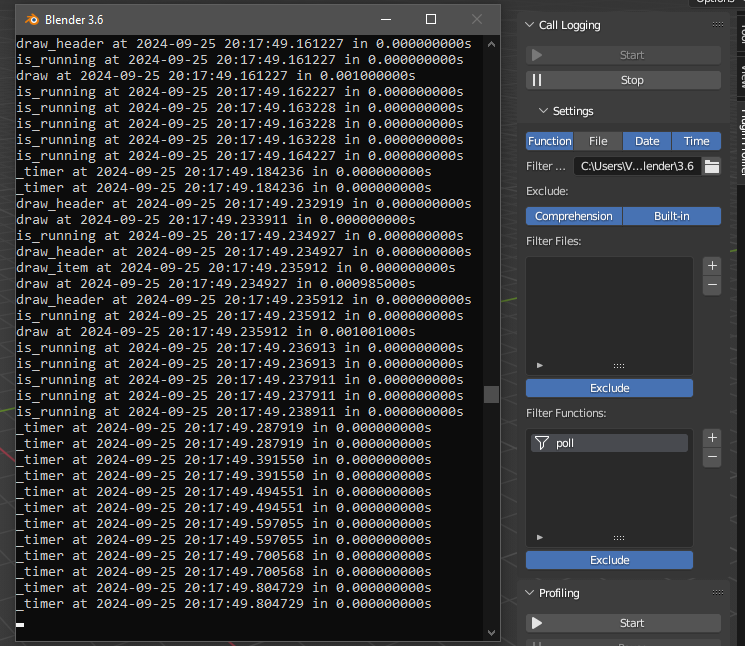
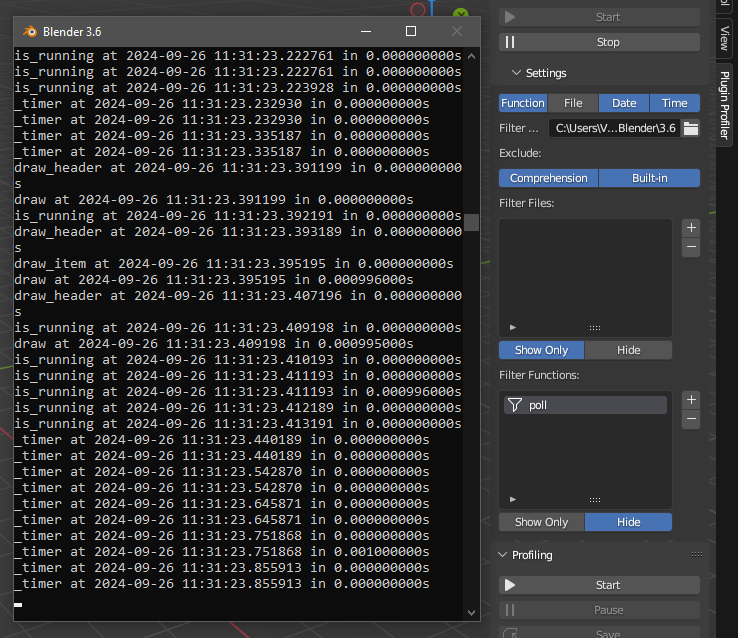
Switch filter types from bool to enum

diff --git a/PluginProfiler/props.py b/PluginProfiler/props.py
@@ -43,9 +43,14 @@ class PPROF_PG_logging(bpy.types.PropertyGroup):
         type=PPROF_PG_logging_filteritem
     )
     filter_file_index: bpy.props.IntProperty(name="Active Filter Index", description="Double click to change name and value")
-    filter_file_exclude: bpy.props.BoolProperty(
-        name="Exclude Filtered Files",
-        description="Hide the items matching the filters instead of only showing them"
+    filter_file_type: bpy.props.EnumProperty(
+        name="Filter Type",
+        description="Filter with whitelisting or blacklisting",
+        items=(
+            ('WHITELIST', "Show Only", "Show items only if they match the filter"),
+            ('BLACKLIST', "Hide", "Hide items if they match the filters")
+        ),
+        default='WHITELIST'
     )
     filter_func: bpy.props.CollectionProperty(
         name="Filter Functions",
@@ -53,9 +58,14 @@ class PPROF_PG_logging(bpy.types.PropertyGroup):
         type=PPROF_PG_logging_filteritem
     )
     filter_func_index: bpy.props.IntProperty(name="Active Filter Index", description="Double click to change name and value")
-    filter_func_exclude: bpy.props.BoolProperty(
-        name="Exclude Filtered Functions",
-        description="Hide the items matching the filters instead of only showing them"
+    filter_func_type: bpy.props.EnumProperty(
+        name="Filter Type",
+        description="Filter with whitelisting or blacklisting",
+        items=(
+            ('WHITELIST', "Show Only", "Show items only if they match the filter"),
+            ('BLACKLIST', "Hide", "Hide items if they match the filters")
+        ),
+        default='WHITELIST'
     )
 
 

diff --git a/PluginProfiler/ui.py b/PluginProfiler/ui.py
@@ -244,7 +244,8 @@ class PPROF_PT_logging_settings(bpy.types.Panel):
         row_file = layout.row()
         col_list_file = row_file.column()
         col_list_file.template_list("PPROF_UL_filter", "PPROF_filter_file", props, "filter_file", props, "filter_file_index")
-        col_list_file.prop(props, "filter_file_exclude", text="Exclude", toggle=True)
+        row_type_file = col_list_file.row(align=True)
+        row_type_file.prop(props, "filter_file_type", expand=True)
         col_op_file = row_file.column(align=True)
         op_add_file = col_op_file.operator("pprof.logging_filter_add", text="", icon='ADD')
         op_add_file.prop = "filter_file"
@@ -255,7 +256,8 @@ class PPROF_PT_logging_settings(bpy.types.Panel):
         row_func = layout.row()
         col_list_func = row_func.column()
         col_list_func.template_list("PPROF_UL_filter", "PPROF_filter_func", props, "filter_func", props, "filter_func_index")
-        col_list_func.prop(props, "filter_func_exclude", text="Exclude", toggle=True)
+        row_type_func = col_list_func.row(align=True)
+        row_type_func.prop(props, "filter_func_type", expand=True)
         col_op_func = row_func.column(align=True)
         op_add_func = col_op_func.operator("pprof.logging_filter_add", text="", icon='ADD')
         op_add_func.prop = "filter_func"

diff --git a/PluginProfiler/utils.py b/PluginProfiler/utils.py
@@ -48,11 +48,11 @@ class Profiler:
             return
         
         for item in self.settings.filter_file:
-            if (item.name in file) == self.settings.filter_file_exclude:
+            if (item.name in file) == (self.settings.filter_file_type == 'BLACKLIST'):
                 return
         
         for item in self.settings.filter_func:
-            if (item.name == name) == self.settings.filter_func_exclude:
+            if (item.name == name) == (self.settings.filter_func_type == 'BLACKLIST'):
                 return
         
         self.callstack[key] = datetime.now()
